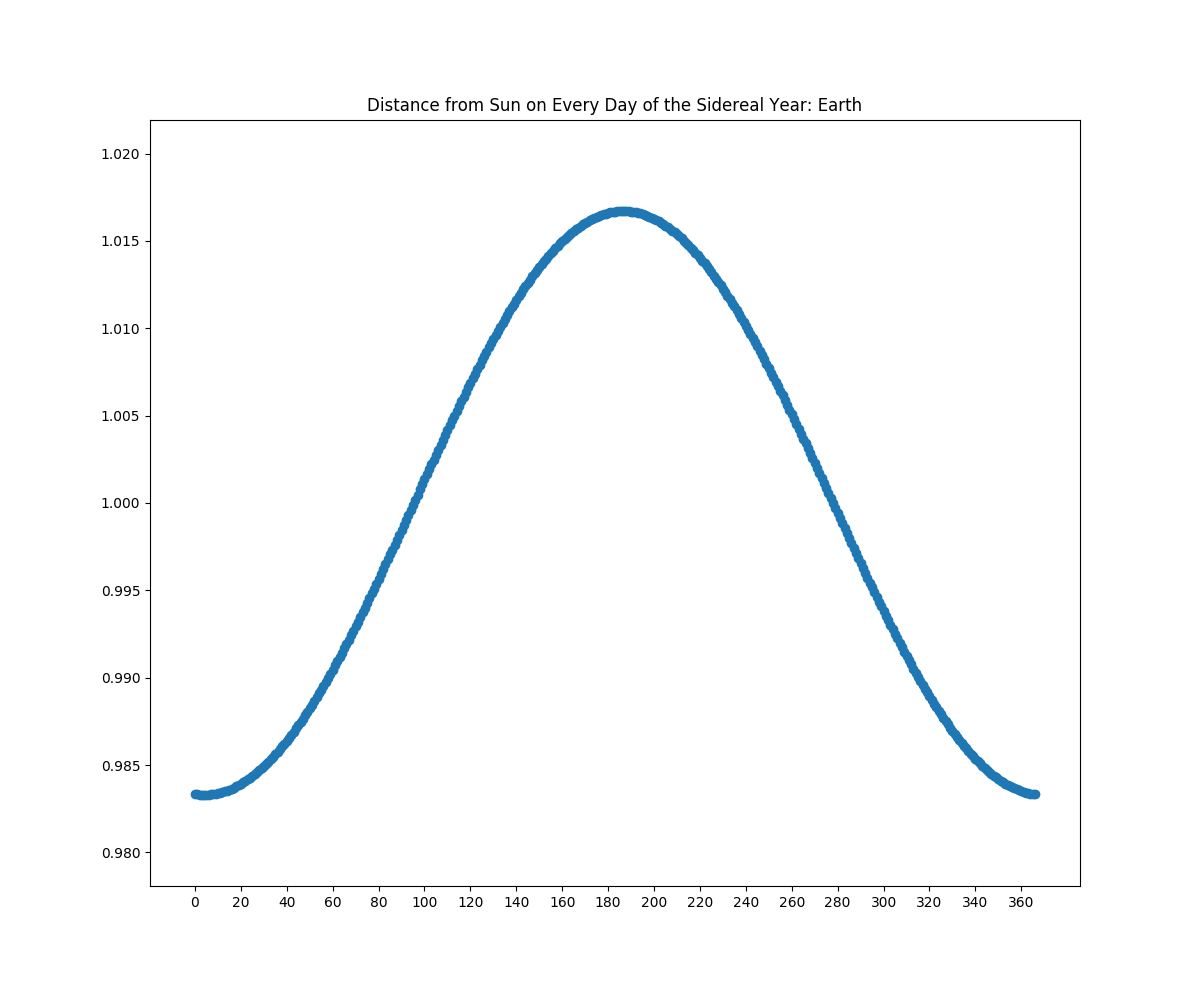
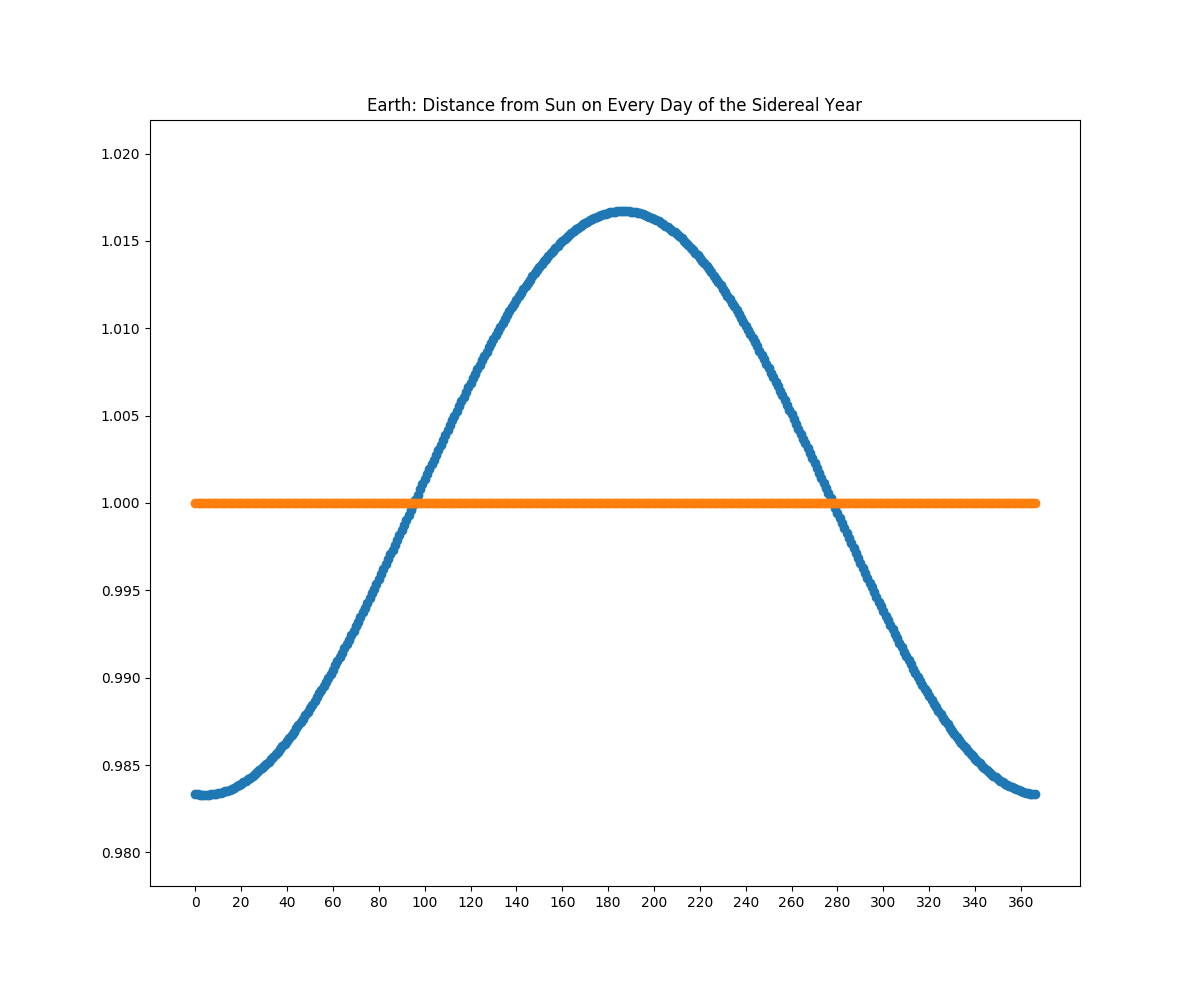
graph mean distance

Changed region(s): [[0.1542, 0.498, 0.8633, 0.5291], [0.3083, 0.0934, 0.7092, 0.1245], [0.6475, 0.9026, 0.6783, 0.9337]]

diff --git a/page_x_astrolabe/calculate_equation_of_time.py b/page_x_astrolabe/calculate_equation_of_time.py
@@ -37,22 +37,27 @@ def determineEccentricityEffectDistance(planet_dict):
 	day_of_perihelion = 4 # for Earth: TODO
 
 	distance_position_for_days_of_year = [] # store the distance from the sun on each day of the sidereal year
+	distance_position_for_days_of_year_without_eccentricity = [] # store distance from sun for a mean distance
 	for day in all_days_of_the_year_list:
 		position_distance_day_au = planet_dict[mean_distance] - planet_dict[eccentricity] * math.cos(np.deg2rad((360/planet_dict[sidereal]) * (day - day_of_perihelion)))
 		distance_position_for_days_of_year.append(position_distance_day_au)
+		distance_position_for_days_of_year_without_eccentricity.append(planet_dict[mean_distance])
 
 	# Plot Sidereal Year Distance
 	plotOverSideRealDistance(planet_dict[planet_name],
 							all_days_of_the_year_list,
 							distance_position_for_days_of_year,
-							planet_dict[sidereal]+1)
+							planet_dict[sidereal]+1,
+							distance_position_for_days_of_year_without_eccentricity)
 
-def plotOverSideRealDistance(planet_name, x, y, range_of_x):
+def plotOverSideRealDistance(planet_name, x, y, range_of_x, y_mean_distance):
 	# Plot Distance from Sun on every day of the Sidereal Year for a planet
 	fig = plt.figure(figsize=(12,12), dpi=100)
-	plt.title("Distance from Sun on Every Day of the Sidereal Year: {0}".format(planet_name))
+	plt.title("{0}: Distance from Sun on Every Day of the Sidereal Year".format(planet_name))
 	plt.xticks(np.arange(0, range_of_x, 20))
-	plt.scatter(x, y)
+	plt.scatter(x, y) # plot with real sun: sun with eccentricity
+	plt.scatter(x, y_mean_distance) # plot the mean sun: sun with no eccentricity
+
 	plt.show()
 	fig.savefig('{0}_eot_sidereal_year_distance.png'.format(planet_name.lower()), dpi=fig.dpi)
 
